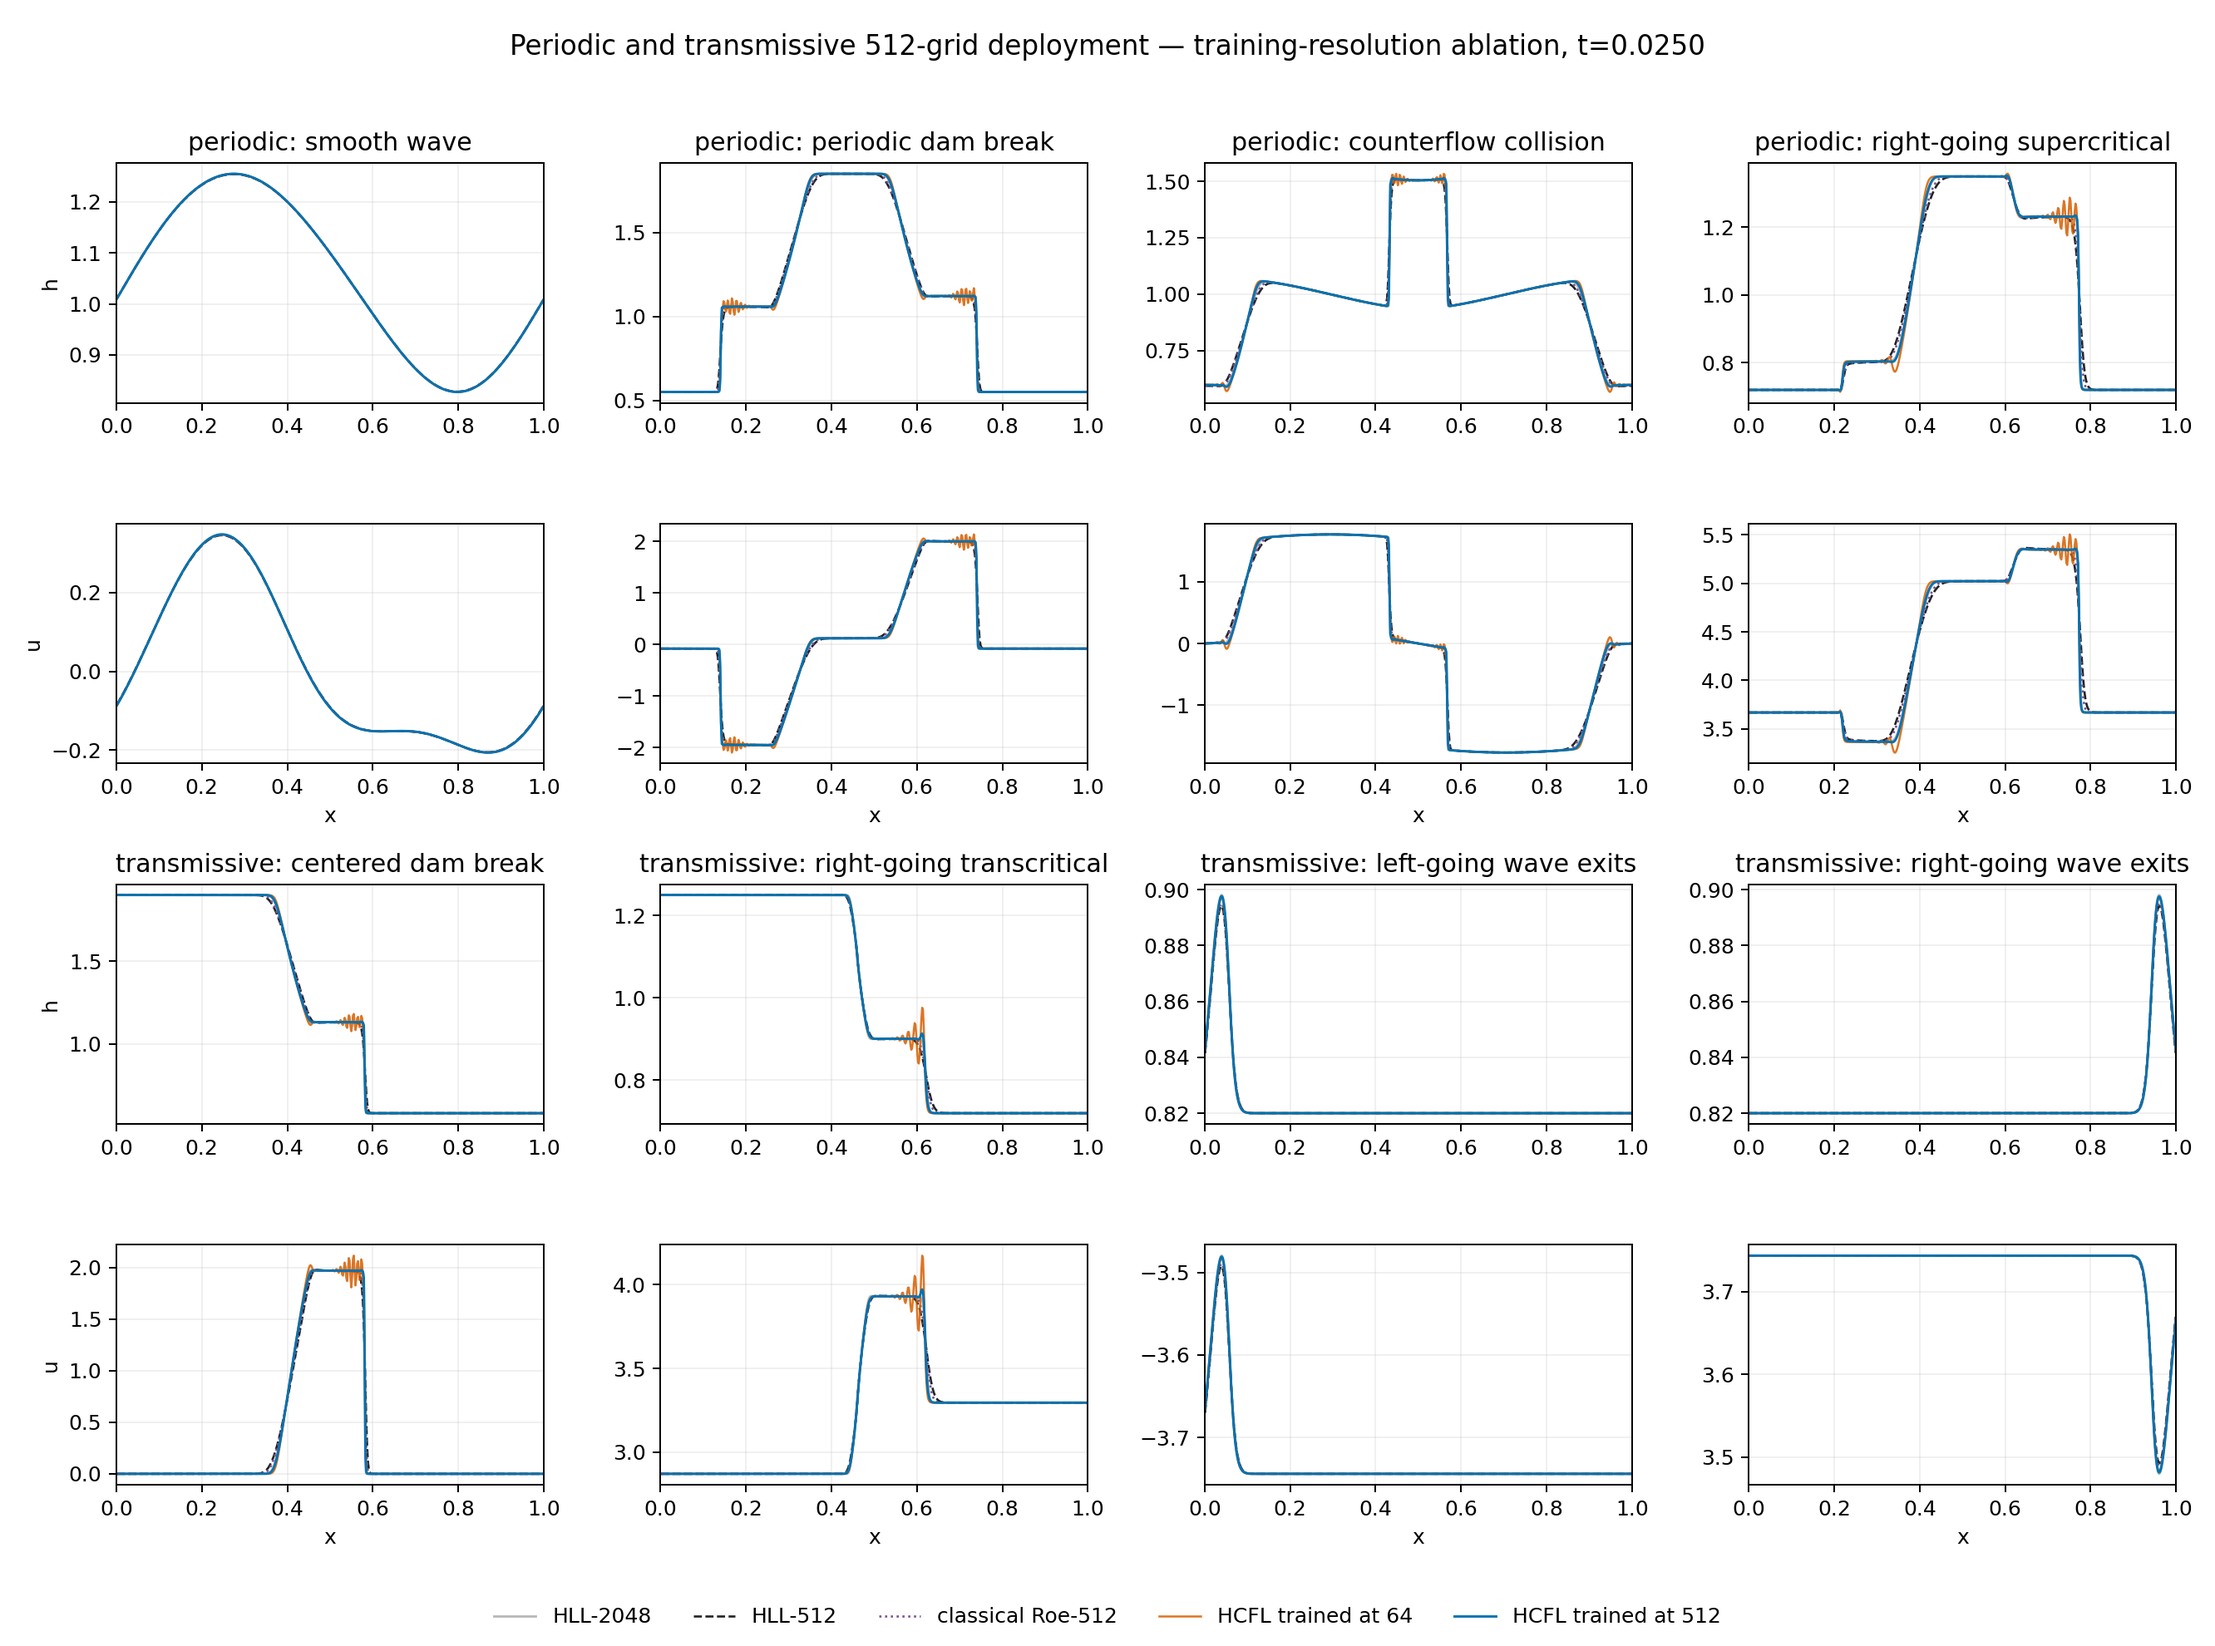
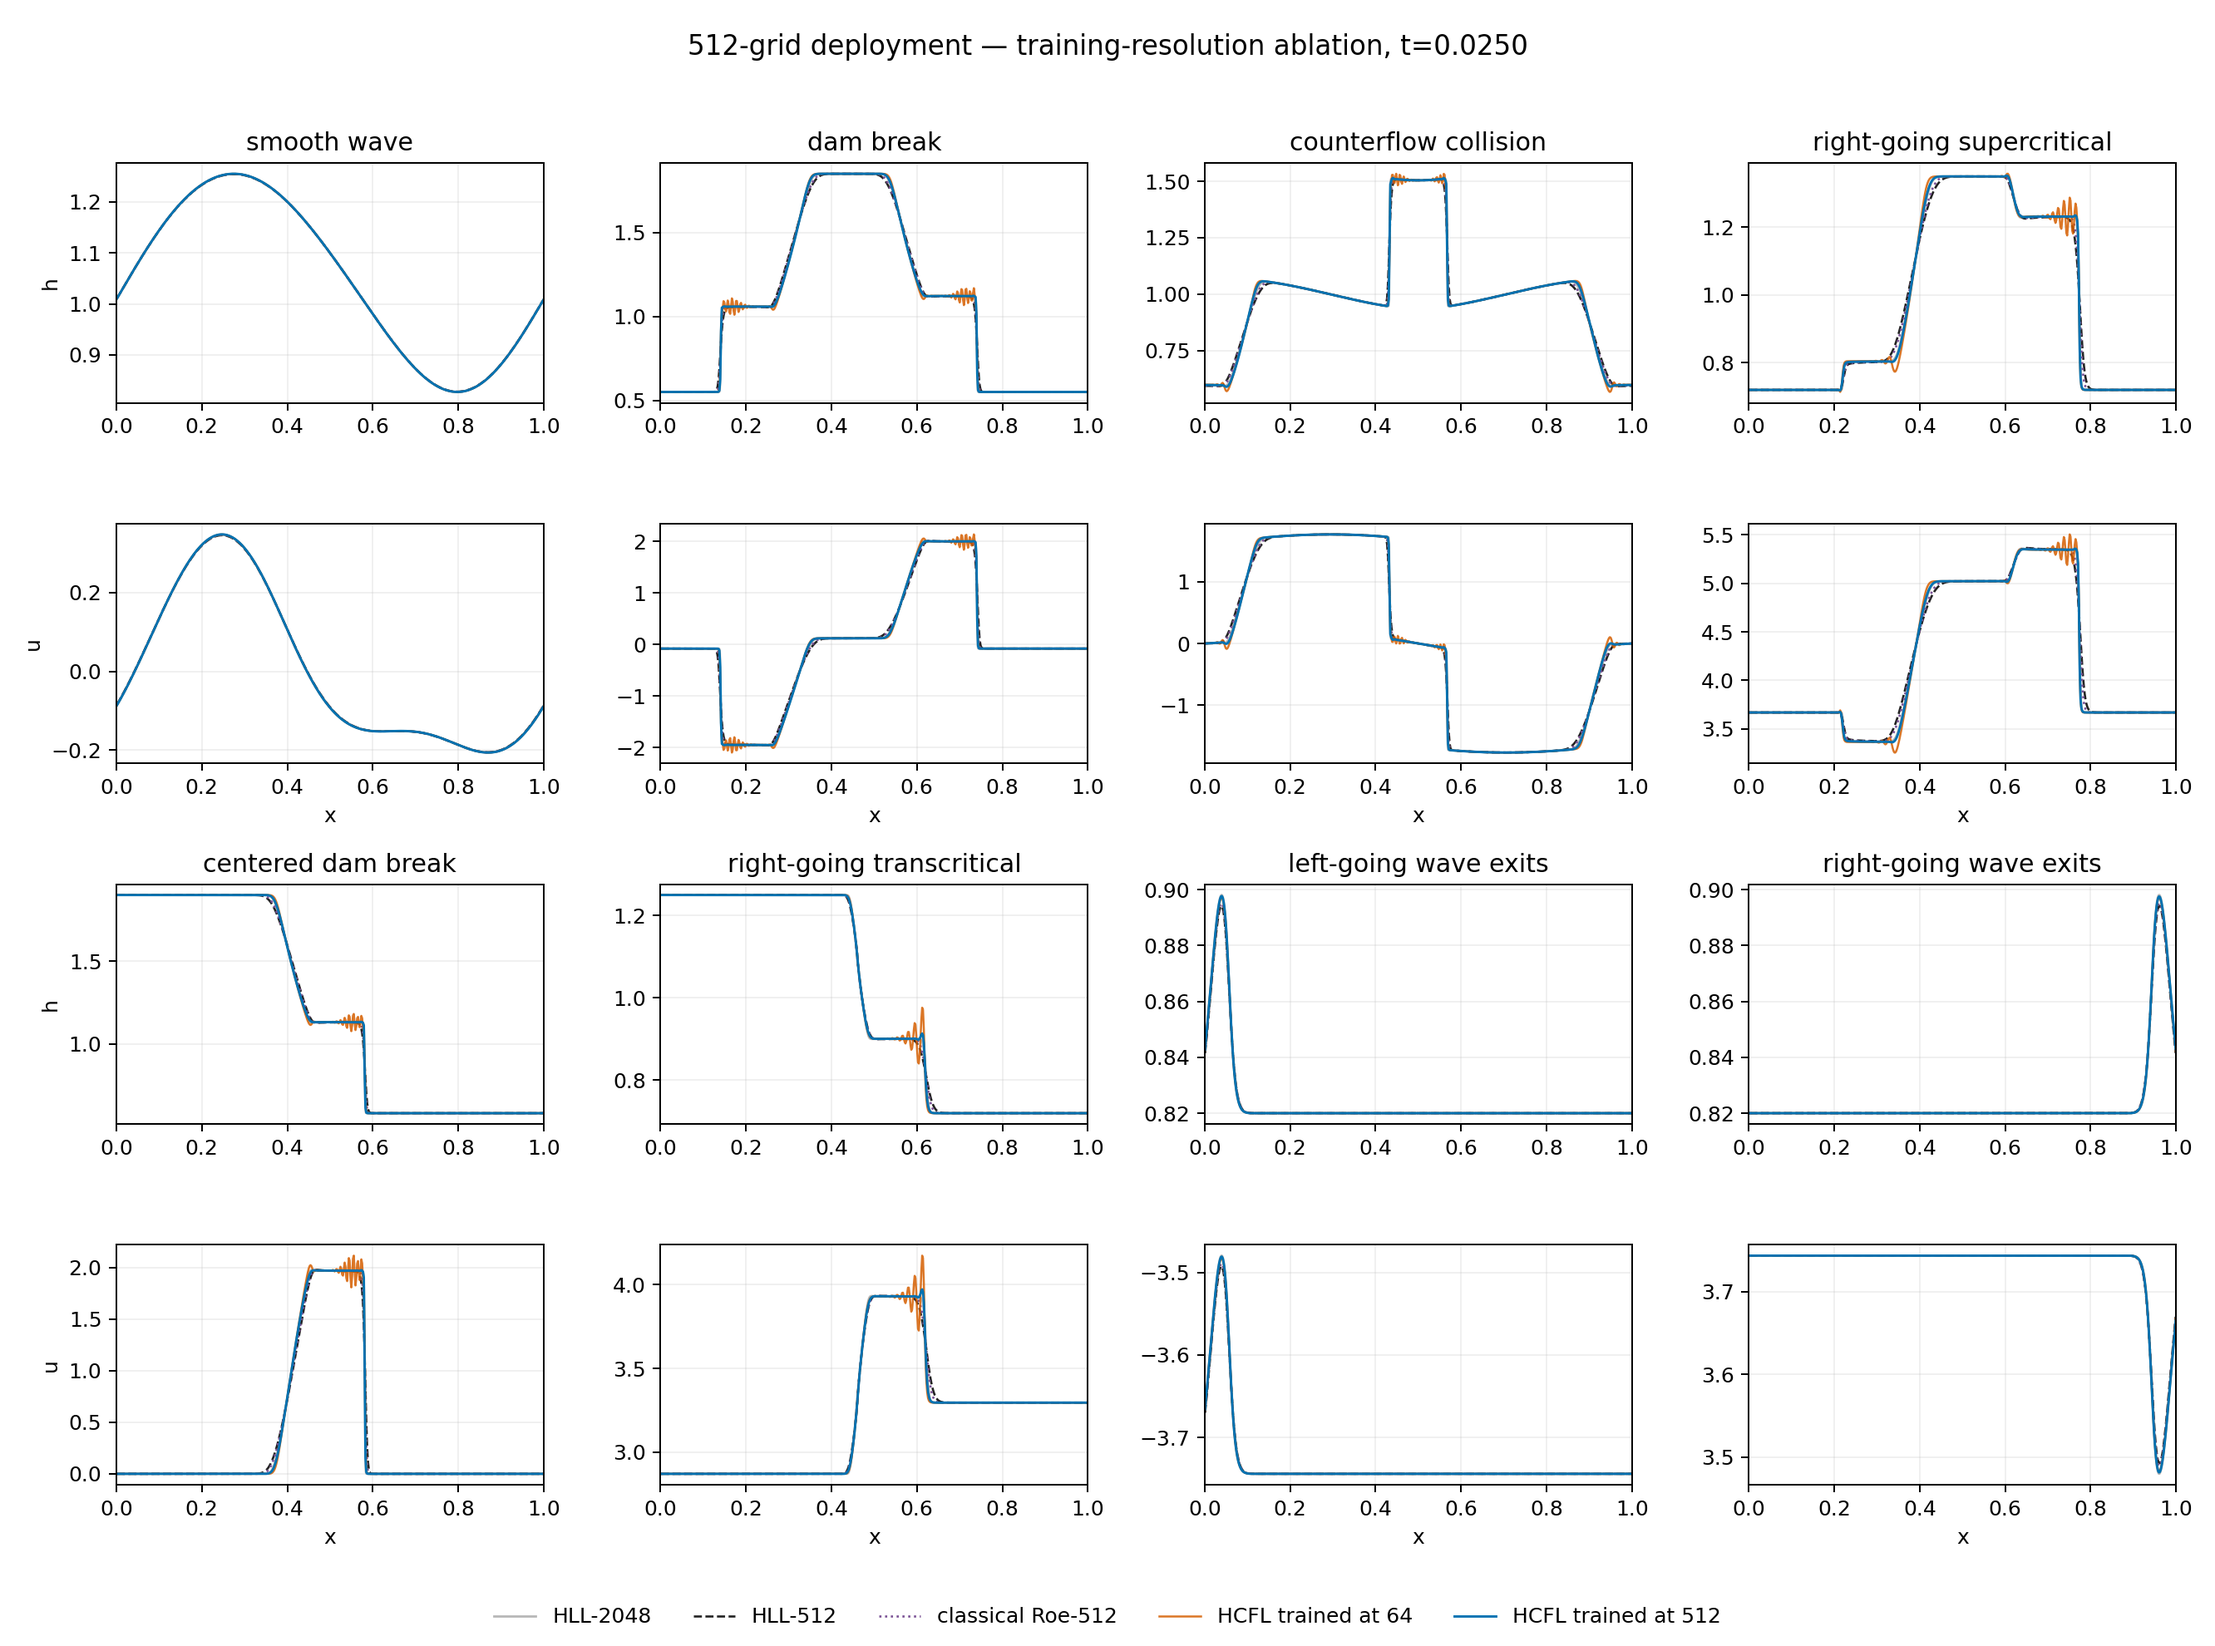
Simplify combined SWE figure titles

diff --git a/hard_constrained_flux_learning/experiments/swe_1d_train512_validation/run_train512.py b/hard_constrained_flux_learning/experiments/swe_1d_train512_validation/run_train512.py
@@ -864,10 +864,10 @@ def plot_combined_profiles(
     fine_x = (np.arange(REFERENCE_CELLS) + 0.5) / REFERENCE_CELLS
     coarse_x = (np.arange(TRAIN_CELLS) + 0.5) / TRAIN_CELLS
     blocks = (
-        (0, "periodic", deployment.PERIODIC_CASES),
-        (2, "transmissive", deployment.NONPERIODIC_CASES),
+        (0, deployment.PERIODIC_CASES),
+        (2, deployment.NONPERIODIC_CASES),
     )
-    for row_offset, boundary, cases in blocks:
+    for row_offset, cases in blocks:
         for column, (case, display) in enumerate(cases.items()):
             item = trajectories[case]
             values = {
@@ -924,14 +924,14 @@ def plot_combined_profiles(
                 axis.grid(alpha=0.18)
                 axis.set_xlim(0.0, 1.0)
                 if local_row == 0:
-                    axis.set_title(f"{boundary}: {display}")
+                    axis.set_title(display.removeprefix("periodic "))
                 if column == 0:
                     axis.set_ylabel(variable)
                 if local_row == 1:
                     axis.set_xlabel("x")
     figure.suptitle(
-        "Periodic and transmissive 512-grid deployment — "
-        f"training-resolution ablation, t={base.DT_SNAPSHOT * (deployment.EVAL_SNAPSHOTS - 1):.4f}",
+        "512-grid deployment — training-resolution ablation, "
+        f"t={base.DT_SNAPSHOT * (deployment.EVAL_SNAPSHOTS - 1):.4f}",
         fontsize=13,
     )
     handles, labels = axes[0, 0].get_legend_handles_labels()
